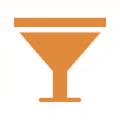
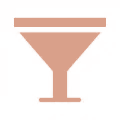
Apply Pixelary design v2: green/clay palette, paper background, new services cards, pixel-dithered contact fold
Hero paragraph now fades out with the tagline on scroll.

Changed region(s): [[0.15, 0.25, 0.85, 0.85], [0.1, 0.15, 0.9, 0.225]]

diff --git a/src/styles/global.css b/src/styles/global.css
@@ -1,16 +1,16 @@
 /* Pixelary — editorial redesign. Replaces src/styles/global.css in full. */
 :root{
---blue:#27646b;--blue-deep:#1c4d53;
---clay:#92521a;--clay-light:#e08a3c;--clay-on-dark:#eda75c;--clay-pale:#e2c8a6;
---charcoal:#2c3a42;--charcoal-deep:#1e282e;
---cream:#f5efe4;--white:#fffcf7;
+--blue:#678c00;--blue-deep:#4c6800;
+--clay:#8f5642;--clay-light:#ac6b53;--clay-on-dark:#d9a08a;--clay-pale:#e3cabd;
+--charcoal:#2c3a42;--charcoal-deep:#3e4c54;
+--paper:#fafafa;--cream:#f5efe4;--white:#fffcf7;
 --ink:#2c3a42;--ink-soft:#4a5a63;
 --rule:rgba(44,58,66,.18);--rule-light:rgba(245,239,228,.22);
 --display:'Playfair Display',Georgia,serif;--ui:'Roboto',-apple-system,sans-serif;--label:'Roboto Condensed','Roboto',sans-serif;--script:'Pinyon Script',cursive;
 }
 *{margin:0;padding:0;box-sizing:border-box}
 html{scroll-behavior:smooth}
-body{background:var(--cream);color:var(--ink);font-family:var(--ui);font-weight:300;overflow-x:hidden;-webkit-font-smoothing:antialiased}
+body{background:var(--paper);color:var(--ink);font-family:var(--ui);font-weight:300;overflow-x:hidden;-webkit-font-smoothing:antialiased}
 a{color:var(--blue);text-decoration:none}a:hover{color:var(--clay)}
 .scene{min-height:100vh;width:100%;position:relative}
 .eyebrow{font-family:var(--label);font-weight:800;font-size:12px;letter-spacing:.28em;text-transform:uppercase}
@@ -18,7 +18,7 @@ a{color:var(--blue);text-decoration:none}a:hover{color:var(--clay)}
 .rule{height:1px;background:var(--rule);width:100%}
 
 /* ── Header ── */
-.header{position:fixed;top:0;left:0;right:0;height:70px;background:rgba(245,239,228,.94);backdrop-filter:blur(8px);border-bottom:1px solid var(--rule);z-index:1000}
+.header{position:fixed;top:0;left:0;right:0;height:70px;background:color-mix(in srgb,var(--paper) 94%,transparent);backdrop-filter:blur(8px);border-bottom:1px solid var(--rule);z-index:1000}
 .header-inner{max-width:1240px;margin:0 auto;padding:0 32px;height:100%;display:flex;justify-content:space-between;align-items:center;gap:24px}
 .header-logo{height:52px;width:auto;display:block}
 .header-meta{flex:1;display:flex;justify-content:center}
@@ -29,7 +29,7 @@ a{color:var(--blue);text-decoration:none}a:hover{color:var(--clay)}
 .btn-clay:hover{background:var(--blue-deep);border-color:var(--blue-deep);color:var(--white)}
 
 /* ── Scene 1 : Masthead hero ── */
-.scene-1{display:flex;flex-direction:column;justify-content:center;align-items:center;background:var(--cream);padding:120px 32px 90px}
+.scene-1{display:flex;flex-direction:column;justify-content:center;align-items:center;background:var(--paper);padding:120px 32px 90px}
 .masthead-rail{position:absolute;top:34px;left:0;right:0;padding:0 40px}
 .masthead-rail .row{max-width:1240px;margin:0 auto;display:flex;justify-content:space-between;align-items:baseline;gap:24px;color:var(--ink-soft);padding-bottom:14px}
 .hero-content{display:flex;flex-direction:column;align-items:center;width:100%;max-width:1000px}
@@ -39,7 +39,7 @@ a{color:var(--blue);text-decoration:none}a:hover{color:var(--clay)}
 .hero-rules i:last-child{opacity:.5}
 .hero-tagline{margin-top:24px;display:flex;align-items:center;justify-content:center;gap:18px;font-family:var(--label);font-weight:800;font-size:clamp(16px,1.59vw,20px);letter-spacing:.34em;text-transform:uppercase;color:var(--ink-soft);text-align:center}
 .hero-tagline i{display:block;width:4px;height:4px;background:var(--clay);transform:rotate(45deg);flex-shrink:0;margin-left:-4px}
-.hero-sub{margin-top:44px;max-width:540px;text-align:center;font-size:16px;font-weight:400;line-height:1.8;color:var(--ink-soft);text-wrap:pretty}
+.hero-sub{margin-top:44px;max-width:540px;text-align:center;font-size:18px;font-weight:400;line-height:1.8;color:var(--charcoal);text-wrap:pretty}
 .scroll-indicator{position:absolute;bottom:40px;left:50%;transform:translateX(-50%);display:flex;flex-direction:column;align-items:center;gap:10px;color:var(--ink-soft)}
 .scroll-indicator .lbl{font-family:var(--label);font-weight:500;font-size:10px;letter-spacing:.3em;text-transform:uppercase}
 .scroll-indicator svg{animation:bounce 2s ease-in-out infinite}
@@ -50,31 +50,31 @@ a{color:var(--blue);text-decoration:none}a:hover{color:var(--clay)}
 .services-inner{max-width:1240px;width:100%}
 .section-head{display:flex;justify-content:space-between;align-items:flex-end;gap:24px;padding-bottom:20px;border-bottom:1px solid var(--rule-light);color:var(--cream)}
 .section-head .eyebrow{opacity:.75}
-.section-head h2{font-family:var(--display);font-weight:400;font-style:italic;font-size:clamp(26px,3.1vw,40px)}
 .cards-container{display:grid;grid-template-columns:repeat(3,1fr);align-items:stretch}
 .service-card{position:relative;padding:52px 44px 40px;display:flex;flex-direction:column;border-right:1px solid var(--rule-light)}
 .service-card:first-child{padding-left:0}
 .service-card:last-child{padding-right:0;border-right:0}
-.card-header{display:flex;align-items:flex-start;justify-content:space-between;gap:20px;margin-bottom:34px}
-.card-num{font-family:var(--label);font-weight:500;font-size:13px;letter-spacing:.24em;color:var(--clay-on-dark)}
+.card-header{display:flex;align-items:flex-start;margin-bottom:34px}
 .icon-wrapper{width:46px;height:46px;display:flex;align-items:center;justify-content:center}
 .service-icon{width:46px;height:46px;object-fit:contain}
-.card-content h3{font-family:var(--display);font-weight:700;font-size:clamp(26px,2.4vw,34px);line-height:1.16;color:var(--cream);margin-bottom:20px}
-.card-content p{font-size:15px;font-weight:400;line-height:1.85;color:rgba(245,239,228,.78);text-wrap:pretty}
+.card-content h3{font-family:var(--display);font-weight:700;font-size:clamp(26px,2.4vw,34px);line-height:1.16;color:var(--cream)}
+.card-content h3 .card-sub{display:block;margin-top:10px;font-family:var(--label);font-weight:800;font-size:11px;letter-spacing:.28em;text-transform:uppercase;color:var(--paper)}
+.card-content .card-summary{margin:20px 0 18px;font-family:var(--display);font-style:italic;font-weight:500;font-size:18px;line-height:1.5;color:var(--cream)}
+.card-content ul{list-style:none;font-size:15px;font-weight:400;line-height:1.6;color:rgba(245,239,228,.78)}
+.card-content li{position:relative;padding-left:18px;margin-top:6px}
+.card-content li::before{content:"";position:absolute;left:1px;top:.7em;width:5px;height:5px;background:var(--clay-on-dark);transform:rotate(45deg)}
 .card-hair{margin-top:auto;padding-top:34px}
-.card-hair i{display:block;height:1px;width:56px;background:var(--clay-light)}
+.card-hair i{display:block;height:1px;width:56px;background:var(--clay-on-dark)}
 
 /* ── Scene 3 : Contact ── */
-.scene-3{background:var(--cream);display:flex;justify-content:center;align-items:center;overflow:hidden;position:relative;padding:110px 32px}
-.gradient-layer{position:absolute;inset:0;pointer-events:none}
-.gradient-gold{background:linear-gradient(135deg,transparent 0%,transparent 56%,var(--clay-light) 56%,var(--clay-light) 100%);opacity:.92}
-.gradient-light{background:linear-gradient(135deg,transparent 0%,transparent 42%,var(--clay-pale) 42%,var(--clay-pale) 56%,transparent 56%,transparent 100%);opacity:.9}
+.scene-3{background:var(--paper);display:flex;justify-content:center;align-items:center;overflow:hidden;position:relative;padding:110px 32px}
+.gradient-layer{position:absolute;inset:0;width:100%;height:100%;pointer-events:none}
 .scene-3-content{display:grid;grid-template-columns:1fr 420px;align-items:center;max-width:1140px;width:100%;gap:80px;position:relative;z-index:1}
 .contact-text .eyebrow{color:var(--ink-soft);display:block;margin-bottom:22px}
 .contact-text h2{font-family:var(--display);font-weight:400;font-size:clamp(46px,6vw,80px);line-height:1.06;color:var(--charcoal);margin-bottom:26px}
 .contact-text h2 em{font-family:var(--script);font-style:normal;font-size:1.24em;color:var(--blue);line-height:.9}
 .contact-text .hr{height:1px;width:120px;background:var(--charcoal);opacity:.35;margin-bottom:26px}
-.contact-text p{font-size:17px;font-weight:400;line-height:1.85;color:var(--ink-soft);max-width:450px;text-wrap:pretty}
+.contact-text p{font-size:18px;font-weight:400;line-height:1.85;color:var(--charcoal);max-width:450px;text-wrap:pretty}
 .contact-form{background:var(--white);border:1px solid var(--rule);padding:44px 40px;box-shadow:0 18px 50px rgba(44,58,66,.12);display:flex;flex-direction:column;gap:26px}
 .form-label{display:block;font-family:var(--label);font-weight:800;font-size:11px;letter-spacing:.22em;text-transform:uppercase;color:var(--ink-soft);margin-bottom:9px}
 .contact-form input,.contact-form textarea{width:100%;font-family:var(--ui);font-weight:300;font-size:15px;padding:0 0 11px;border:0;border-bottom:1px solid var(--rule);background:transparent;color:var(--ink);outline:none;transition:border-color .2s ease}
@@ -83,6 +83,8 @@ a{color:var(--blue);text-decoration:none}a:hover{color:var(--clay)}
 .contact-form textarea{resize:none}
 .btn-send{margin-top:6px;width:100%;padding:16px 26px}
 .form-status{text-align:center;font-size:13px;min-height:1px}
+.form-status.success{color:#2f7a4f}
+.form-status.error{color:#b23a2a}
 
 /* ── Footer ── */
 .footer{background:var(--charcoal-deep);padding:78px 32px 46px;color:var(--cream)}
@@ -99,9 +101,8 @@ a{color:var(--blue);text-decoration:none}a:hover{color:var(--clay)}
 .service-card{border-right:0;border-bottom:1px solid var(--rule-light);padding:40px 0}
 .service-card:last-child{border-bottom:0}
 .scene-3-content{grid-template-columns:1fr;gap:48px}
-.gradient-gold{background:linear-gradient(160deg,transparent 0%,transparent 72%,var(--clay-light) 72%,var(--clay-light) 100%)}
-.gradient-light{background:linear-gradient(160deg,transparent 0%,transparent 52%,var(--clay-pale) 52%,var(--clay-pale) 72%,transparent 72%,transparent 100%)}
 .masthead-rail,.header-meta{display:none}
+.hero-sub{font-size:17px}
 .footer-top{flex-direction:column;align-items:flex-start;gap:20px}
 .footer-tag{text-align:left}
 .footer-bottom{flex-direction:column;align-items:flex-start;gap:8px}
